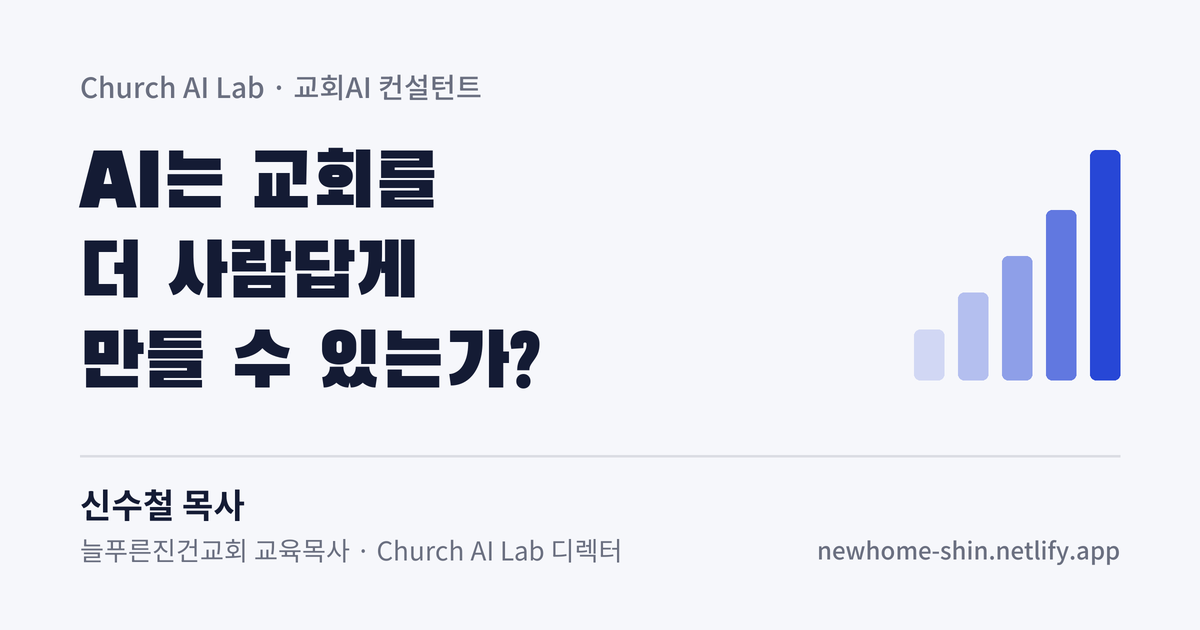
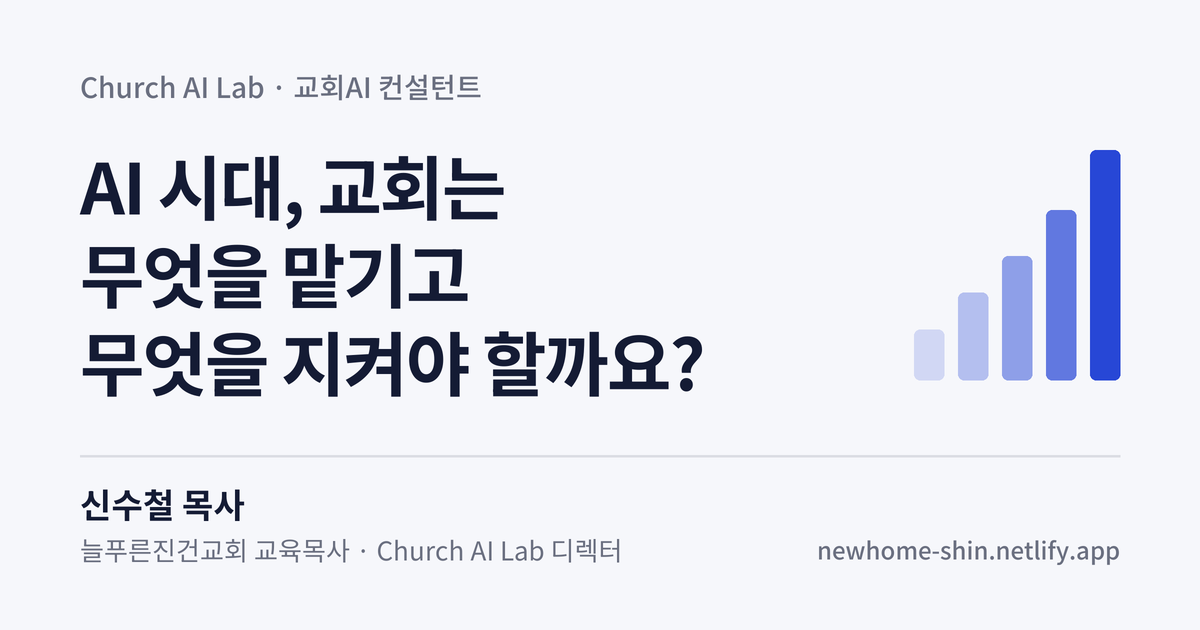
나만의 질문을 'AI 시대, 교회는 무엇을 맡기고 무엇을 지켜야 할까요?'로 통일
- 카톡·SNS 미리보기 이미지(og.png)를 새 질문과 애플 스타일 제목(Noto Sans KR 700·음수 자간)으로 다시 그림
- make_og.py: 기본 문구 새 질문, --style apple|classic, 자간 적용
- og_image 주소에 ?v=20261009를 붙여 공유 캐시 갱신 유도, 대체 텍스트 갱신
- my-homepage 스킬 2.3·4.4·체크리스트 10번 새 질문으로 (변경 기록 포함)

Changed region(s): [[0.0617, 0.2111, 0.5858, 0.6333]]

diff --git a/scripts/og/make_og.py b/scripts/og/make_og.py
@@ -3,7 +3,8 @@
 사용:
   python3 scripts/og/make_og.py                       # src/assets/og.png 생성
   python3 scripts/og/make_og.py --name "신수철 목사" --out /tmp/og-alt.png
-디자인: DESIGN.md 3색(배경 #F6F7FB · 글자 #141B34 · 강조 #2747D6), 제목 Black Han Sans · 본문 Noto Sans KR.
+디자인: DESIGN.md 3색(배경 #F6F7FB · 글자 #141B34 · 강조 #2747D6).
+제목 글꼴: --style apple(기본, 현재 공개 테마) = Noto Sans KR 700·촘촘한 자간 / --style classic = Black Han Sans.
 강조색은 '성장 — 천천히 그러나 꾸준히'를 뜻하는 오르는 막대 하나에만 쓴다.
 """
 import argparse, os, urllib.request
@@ -33,17 +34,27 @@ def noto(px, weight):
     except Exception: pass
     return f
 
-def render(out, label, lines, name, role, url, S=2):
+def draw_tracked(d, xy, text, font, fill, tracking):
+    """자간(tracking, px)을 적용해 왼쪽 정렬·세로 가운데(lm)로 그린다."""
+    x, y = xy
+    for ch in text:
+        d.text((x, y), ch, font=font, fill=fill, anchor="lm")
+        x += font.getlength(ch) + tracking
+
+def render(out, label, lines, name, role, url, style="apple", S=2):
     W, H = 1200 * S, 630 * S
     im = Image.new("RGB", (W, H), BG); d = ImageDraw.Draw(im)
     X, R = 80 * S, 1120 * S
     # 라벨
     d.text((X, (72 + 14) * S), label, font=noto(28 * S, 500), fill=MUTED, anchor="lm")
     # 제목(나만의 질문)
-    h1 = ImageFont.truetype(os.path.join(FONTS, "BlackHanSans-Regular.ttf"), 76 * S)
-    lh, top = 90, 140
+    if style == "classic":
+        h1, track, lh = ImageFont.truetype(os.path.join(FONTS, "BlackHanSans-Regular.ttf"), 76 * S), 0, 90
+    else:  # apple: 굵은 고딕 + 음수 자간(-0.03em)
+        h1, track, lh = noto(70 * S, 700), -0.03 * 70 * S, 88
+    top = 140
     for i, ln in enumerate(lines):
-        d.text((X, (top + lh * i + lh / 2) * S), ln, font=h1, fill=TEXT, anchor="lm")
+        draw_tracked(d, (X, (top + lh * i + lh / 2) * S), ln, h1, TEXT, track)
     # 성장 막대 — 유일한 강조 요소
     bw, gap, btop, bh = 30, 14, 150, 230
     x0 = 1120 - (5 * bw + 4 * gap)
@@ -66,11 +77,12 @@ if __name__ == "__main__":
     ap = argparse.ArgumentParser()
     ap.add_argument("--out", default=os.path.join(HERE, "..", "..", "src", "assets", "og.png"))
     ap.add_argument("--label", default="Church AI Lab · 교회AI 컨설턴트")
-    ap.add_argument("--lines", default="AI는 교회를|더 사람답게|만들 수 있는가?")
+    ap.add_argument("--lines", default="AI 시대, 교회는|무엇을 맡기고|무엇을 지켜야 할까요?")
+    ap.add_argument("--style", default="apple", choices=["apple", "classic"])
     ap.add_argument("--name", default="신수철 목사")
     ap.add_argument("--role", default="늘푸른진건교회 교육목사 · Church AI Lab 디렉터")
     ap.add_argument("--url", default="newhome-shin.netlify.app")
     a = ap.parse_args()
     ensure_fonts()
-    p = render(a.out, a.label, a.lines.split("|"), a.name, a.role, a.url)
+    p = render(a.out, a.label, a.lines.split("|"), a.name, a.role, a.url, a.style)
     print(os.path.normpath(p), os.path.getsize(p) // 1024, "KB")

diff --git a/.claude/skills/my-homepage/SKILL.md b/.claude/skills/my-homepage/SKILL.md
@@ -53,7 +53,7 @@ description: 신수철 목사(Church AI Lab 디렉터·교회AI 컨설턴트)의
 | **신학적 분별** | 나를 다른 "AI 강사"와 구별하는 말. 소개 페이지와 강의 소개에 반드시 한 번 이상 |
 | **교회교육** | 내가 선 자리(교육목사·청소년 사역)를 드러내는 말. 경험 서술에 쓴다 |
 
-**나만의 질문: "AI는 교회를 더 사람답게 만들 수 있는가?"**
+**나만의 질문: "AI 시대, 교회는 무엇을 맡기고 무엇을 지켜야 할까요?"** (2026-10-09 오너 결정으로 "AI는 교회를 더 사람답게 만들 수 있는가?"에서 변경)
 이 질문은 홈페이지 어딘가(히어로 아래 또는 소개 페이지 첫머리)에 그대로 한 번 들어갑니다. 답을 서둘러 내지 않고, 사이트 전체가 이 질문을 함께 생각하는 자리임을 보여줍니다.
 
 ### 2.4 이 일을 하는 이유
@@ -174,7 +174,7 @@ description: 신수철 목사(Church AI Lab 디렉터·교회AI 컨설턴트)의
 ### 4.4 페이지 기본 골격 (홈)
 
 1. **히어로** — H1(정체성 문장을 줄인 한 줄) + 부제(신뢰 축: 누구를 위해) + 주 버튼 하나 + 보조 버튼 하나
-2. **나만의 질문** — "AI는 교회를 더 사람답게 만들 수 있는가?" 한 줄, 강조 없이 조용히
+2. **나만의 질문** — "AI 시대, 교회는 무엇을 맡기고 무엇을 지켜야 할까요?" 한 줄. 애플 스타일에서는 어두운 남색 구획에 크게, 덧붙이는 말은 두세 문장
 3. **이런 분을 위해** — 가치 축(어떻게 써야 할지 모르겠는 분)을 세 가지 상황으로
 4. **무엇을 함께 하나** — 신학적 분별 · 현장 실습 · 온라인 활동, 카드 3개
 5. **나는 누구인가** — 증거 네 가지를 한 문장씩 + 두 링크
@@ -227,11 +227,11 @@ description: 신수철 목사(Church AI Lab 디렉터·교회AI 컨설턴트)의
 [ ] 7. 후기·경력·수상이 전부 2.5절 증거표 또는 사용자가 준 사실인가 (지어낸 것 0개)
 [ ] 8. 소제목이 질문형이고 그 아래 첫 문장이 바로 답인가
 [ ] 9. 교회 링크·블로그 링크가 푸터에 있고, 내부 링크가 2개 이상인가
-[ ] 10. 마무리에 "감사합니다"가 있고, 페이지가 "AI는 교회를 더 사람답게 만들 수 있는가?"에 어긋나지 않는가
+[ ] 10. 마무리에 "감사합니다"가 있고, 페이지가 "AI 시대, 교회는 무엇을 맡기고 무엇을 지켜야 할까요?"에 어긋나지 않는가
 ```
 
 열 줄 모두 통과한 것만 결과물로 냅니다. 하나라도 걸리면 고친 뒤 다시 검수하고, 보고할 때 "체크리스트 10/10 통과"라고 한 줄 적습니다.
 
 ---
 
-*신수철 목사 (Church AI Lab 디렉터) · 2026-10-06 · 버전 1.2 (2026-10-08 이름 표기 변경 · 2026-10-09 애플 스타일 테마 적용)*
+*신수철 목사 (Church AI Lab 디렉터) · 2026-10-06 · 버전 1.2 (2026-10-08 이름 표기 변경 · 2026-10-09 애플 스타일 테마 적용·나만의 질문 변경)*
